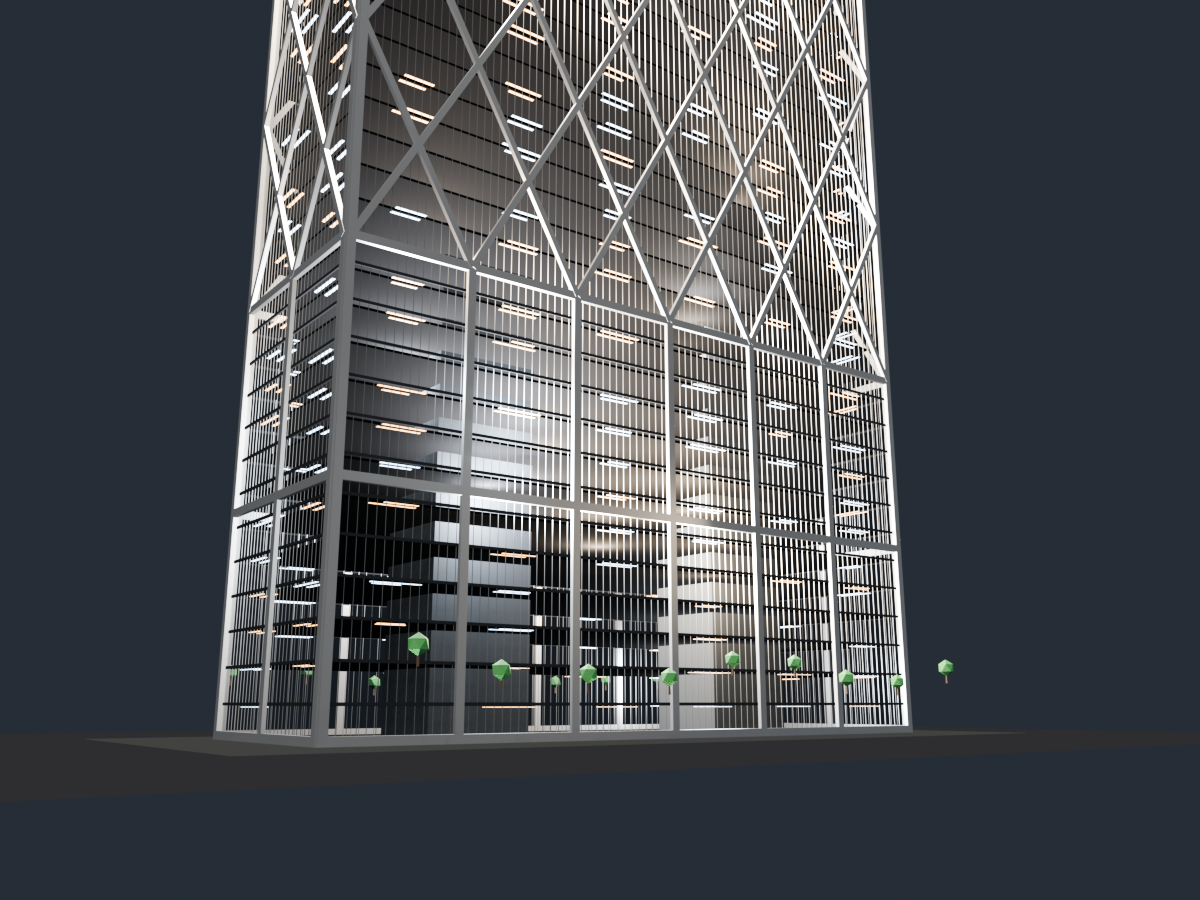
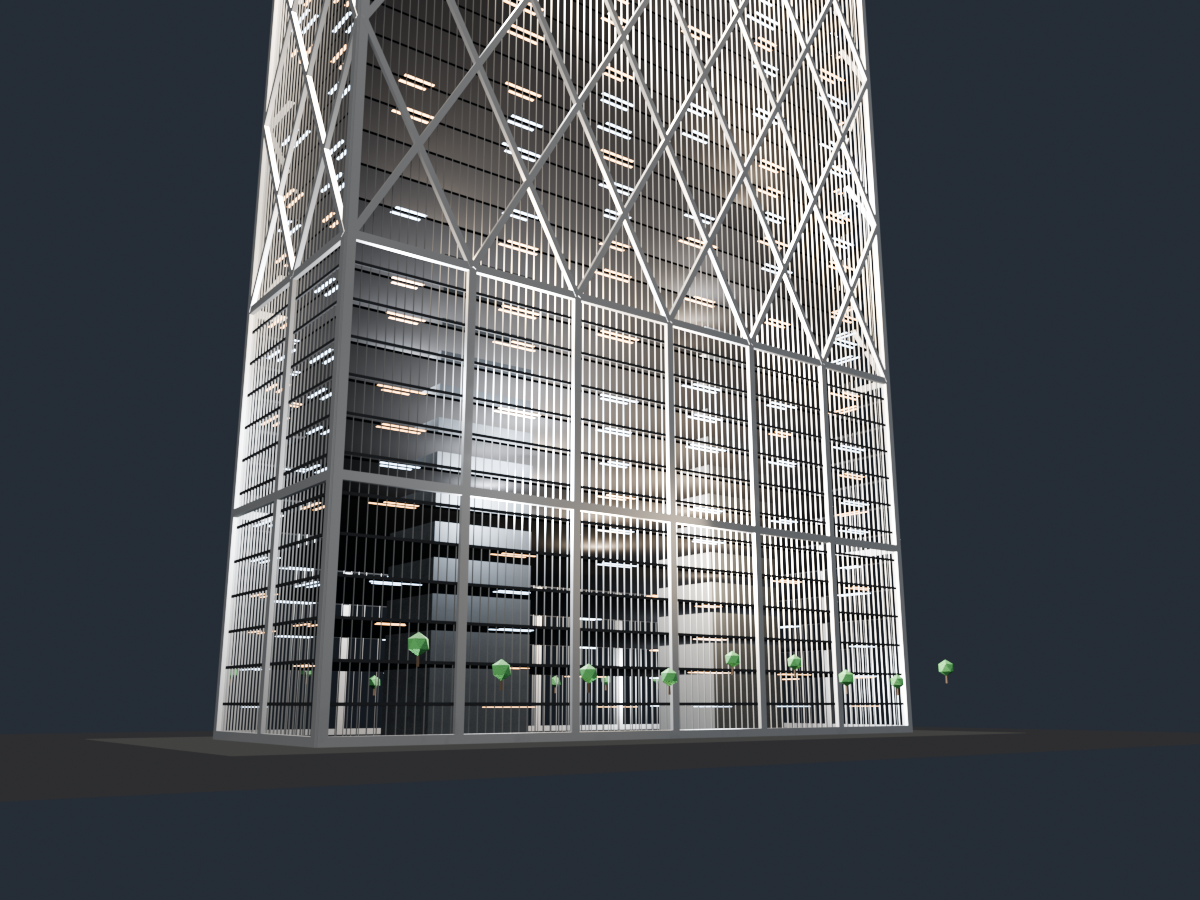
feat: deepen the Stack 3 mullions to 200 mm
The pane joints were a 90 mm strip sitting in front of the glass. Each mullion
is now a long flat bar 70 mm wide by 200 mm deep, running from the frame plane
back to the glazing, so every pane sits at the back of a 200 mm reveal.

diff --git a/build_stack3.py b/build_stack3.py
@@ -461,7 +461,7 @@ def build_lattice(mats, cols, rng):
         step = 2 * half / n
         for i in range(n + 1):
             u = -half + i * step
-            mull.face_box(face, u - 0.028, u + 0.028, z0, z1, -0.58, 0.09)
+            mull.face_box(face, u - 0.035, u + 0.035, z0, z1, -0.58, 0.20)
     mull.finish()
 
     # A real curtain wall behind the big frame: narrow vertical panes between

diff --git a/README.md b/README.md
@@ -251,8 +251,8 @@ module and run 28 floors.
   band, the floor line is the dark slab edge itself; every floor plate in the
   model is near-black. Behind it is one dark glass skin with no visible pane
   joints at all: a fine vertical curtain wall of 1.25 m panes - 4:1 with the
-  5 m storey - set 200 mm back inside the frame, so the frame stands proud of
-  the glass. Every floor, here and in the planted level, is
+  5 m storey - on 70 x 200 mm mullions set 200 mm into the frame, so each pane
+  sits at the back of a deep reveal. Every floor, here and in the planted level, is
   lit the same way as the apartments: one cool-or-warm ceiling strip per room.
 - **Plaza, 158-188 m.** A planted arcade of branching tree columns and planting,
   open through - no interior wall - with the same room strips on its floors.
